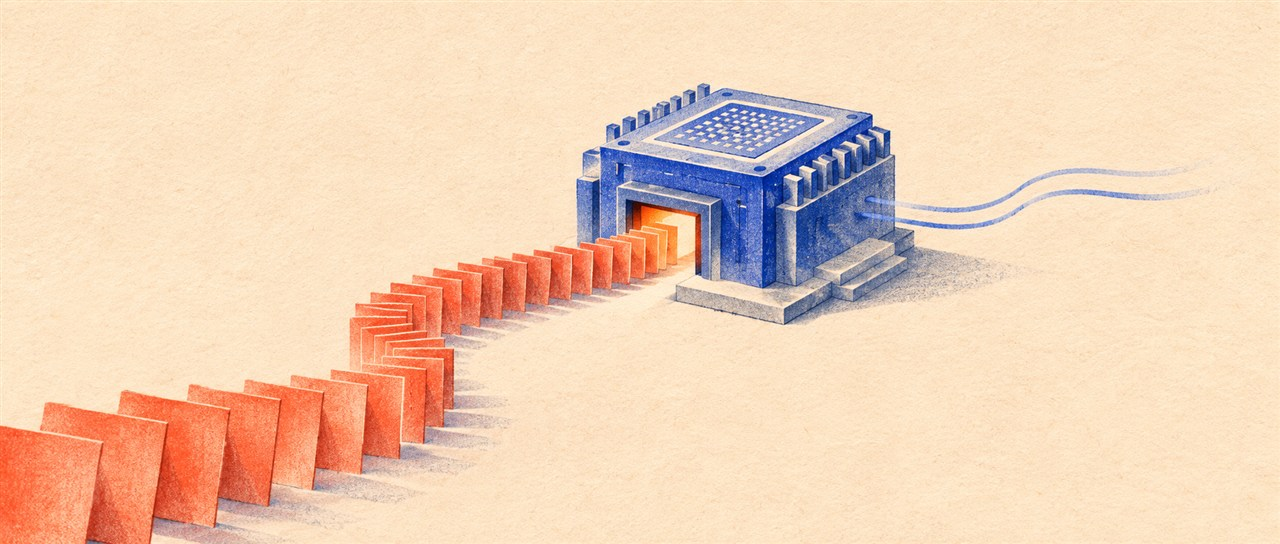
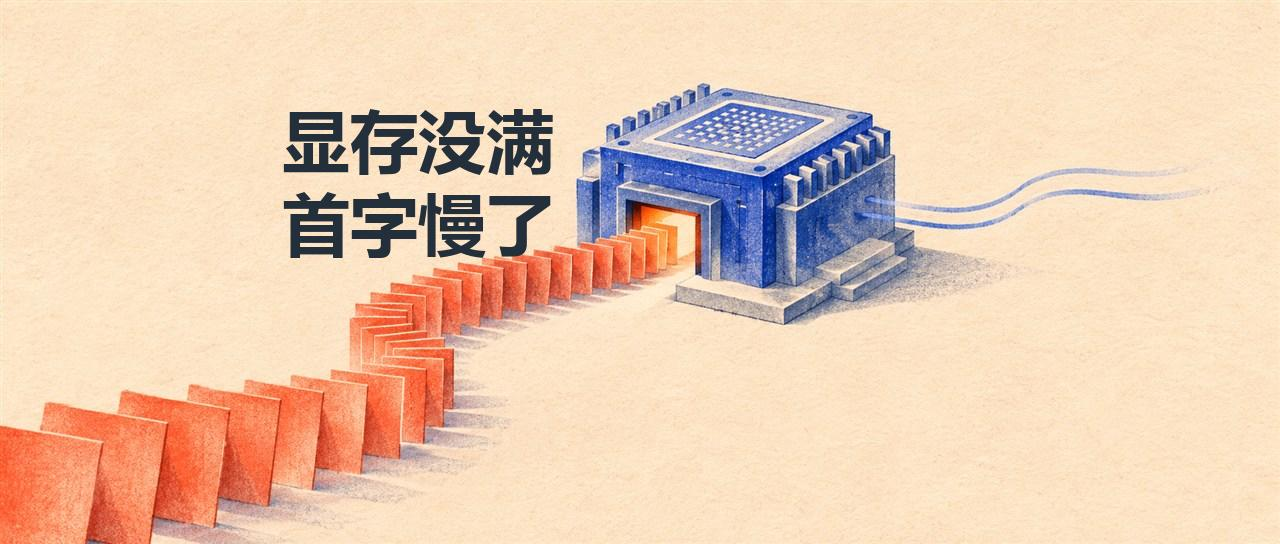
Standardize illustrated covers with separate title composition

Changed region(s): [[0.2188, 0.1875, 0.4375, 0.4688], [0.5312, 0.1875, 0.625, 0.25]]

diff --git a/skills/wechat-writing/scripts/compose_cover.py b/skills/wechat-writing/scripts/compose_cover.py
@@ -1,0 +1,84 @@
+"""Place the approved cover title on a generated, text-free illustration."""
+import argparse
+import os
+from pathlib import Path
+
+from PIL import Image, ImageDraw, ImageFont, ImageOps
+
+
+SIZES = {"wechat": (1280, 544), "ppt": (1600, 900)}
+INK = "#242F3C"
+FONT_PATHS = (
+    Path(os.environ.get("WINDIR", "C:/Windows")) / "Fonts/msyhbd.ttc",
+    Path("/usr/share/fonts/opentype/noto/NotoSansCJK-Bold.ttc"),
+    Path("/usr/share/fonts/opentype/noto/NotoSansCJKsc-Bold.otf"),
+    Path("/System/Library/Fonts/PingFang.ttc"),
+)
+
+
+def wrap_title(title, font, max_width):
+    lines = []
+    for paragraph in title.splitlines():
+        line = ""
+        for char in paragraph:
+            if line and font.getlength(line + char) > max_width:
+                lines.append(line.rstrip())
+                line = char.lstrip()
+            else:
+                line += char
+        if line.strip():
+            lines.append(line.rstrip())
+    return lines
+
+
+def put_title(image, title, font_path):
+    width, height = image.size
+    draw = ImageDraw.Draw(image)
+    max_width = width * 0.33
+    for size in range(round(width * 0.053), round(width * 0.038) - 1, -2):
+        font = ImageFont.truetype(str(font_path), size)
+        lines = wrap_title(title, font, max_width)
+        if len(lines) <= 2 and all(font.getlength(line) <= max_width for line in lines):
+            left = round(width * 0.22)
+            top = round(height * 0.20)
+            for index, line in enumerate(lines):
+                draw.text((left, top + index * round(size * 1.22)), line,
+                          font=font, fill=INK, anchor="lt")
+            return
+    raise ValueError("标题在安全区内放不下，请用更短的封面标题或调整换行。")
+
+
+def main():
+    parser = argparse.ArgumentParser(description="在无字手绘背景上叠加封面标题")
+    parser.add_argument("background", type=Path)
+    parser.add_argument("--title", required=True)
+    parser.add_argument("--format", choices=SIZES, default="wechat")
+    parser.add_argument("--font", type=Path, help="可选的中文粗体字体路径")
+    parser.add_argument("-o", "--output", type=Path, required=True)
+    args = parser.parse_args()
+
+    title = args.title.strip()
+    if not title:
+        parser.error("请提供封面标题。")
+    if args.background.resolve() == args.output.resolve():
+        parser.error("背景和输出请使用不同文件。")
+    font_path = args.font or next((path for path in FONT_PATHS if path.is_file()), None)
+    if not font_path:
+        parser.error("未找到中文字体。请安装思源黑体，或用 --font 指定中文粗体字体。")
+
+    try:
+        with Image.open(args.background) as source:
+            image = ImageOps.fit(
+                ImageOps.exif_transpose(source).convert("RGB"),
+                SIZES[args.format], Image.Resampling.LANCZOS,
+            )
+        put_title(image, title, font_path)
+        args.output.parent.mkdir(parents=True, exist_ok=True)
+        image.save(args.output)
+    except (OSError, ValueError) as error:
+        parser.error(str(error))
+
+
+if __name__ == "__main__":
+    main()
+

diff --git a/skills/wechat-writing/references/cover.md b/skills/wechat-writing/references/cover.md
@@ -1,13 +1,28 @@
-# 公众号封面
+# 手绘封面
 
-用户说“生成封面”“做一张封面”“重新做封面”时，先读文章或主题，再调用当前会话真实可用的图像生成工具。在 WorkBuddy 优先使用它的图片生成能力。用户给了定稿封面就直接采用；已有封面且用户只要预览或推草稿时沿用它。
+公众号新封面固定使用暖米白纸纹、石墨线稿和钴蓝为主的手绘插画，可以用少量朱红点出变化。标题用深墨色粗体，靠左排，图像主体在右半边，左右两侧留给平台裁切。用户提供定稿就沿用；只需预览或推草稿时沿用已有封面。
 
-1. 给模型一个具体的画面：画什么主体、主体在做什么、这个动作怎样说明文章主题。教程可用真实工具或操作画面，复盘可画关键过程，资讯可抓住一个变化做概念插画。用户给了参考图，或指定了项目的 `风格参考/`，可取一张同题材参考构图和视觉调性。
-2. 要求 2.35:1 横版，把主体放在中心区域，留出左右裁切空间。默认以有具体主体的无字插画或有辨识度的场景为主。用户要求有字时，让模型将确定的短标题画进画面，文字配合主体构图。避免只有标题、纯色背景或空泛装饰的封面。
-3. 打开实际成图检查主体、裁切后的缩略图和文字。有错字就重新生成，或在用户接受无字封面时出无字版。工具没有目标比例时，可用接近的宽幅图裁切至 1280×544；主体被裁掉就调整构图重做。
-4. 将选中的实际图片写入文章目录（例如 `cover.png`），更新 frontmatter 的 `cover`。预览和推草稿时核对路径及文件存在，必要时为 `wxpub publish` 显式传同一张图的 `--cover`。只在用户要求重做封面时替换既有文件。
+## 生成无字背景
 
-当前会话没有可用的图像生成工具、调用失败，或未返回可用图片时，说明停在哪一步，交付可复制的生图提示词和比例，等用户提供图片或选择其他方式。只有用户明确选择模板封面时，才执行 `wxpub cover` 或使用 `wxpub publish` 的自动模板。提示词、排版模板和真实生成的图片按实际产物描述。
+根据文章选一个能画出来的对象、动作或结果，同一套配色下换题材。例如讲排队就画请求卡片依次进入芯片。用 WorkBuddy 或当前会话的图片生成工具画背景，参考 [手绘底图](../assets/cover-style.jpg) 的纸纹、线稿与配色。保留画面的安静区域和可辨认的单一主体。
 
-参考花叔的 [公众号配图](https://github.com/alchaincyf/huashu-skills/tree/master/huashu-wechat-image) 和 [参考图用法](https://github.com/alchaincyf/huashu-gpt-image/blob/master/SKILL.md)。
+可把这段作为生图说明，替换括号里的内容：
+
+> 手绘科技编辑插画，（具体主体与动作）。暖米白纸纹、石墨线稿、钴蓝主体、少量朱红。主体集中在横向约 58%–76% 的区域，左侧标题区（横向 22%–56%、纵向 20%–54%）保留连续浅色，边缘留裁切空间。2.35:1 宽幅。画面里不出现文字、数字、Logo 或水印。
+
+默认交付 `1280×544` 的公众号封面。给 PPT 做同系列封面时改成 `16:9` 构图，沿用配色、左字右图和手绘质感。在 PPT 里用独立文本框叠标题，方便修改；只需封面图文件时可以用下面脚本的 `--format ppt`。
+
+## 叠标题并交付
+
+把实际生成的无字图保存到文章目录，例如 `cover-background.png`。标题单独叠加，使用用户给定的封面标题，或使用文章标题，过长时先拟一个原意一致的短标题。保持字色和位置统一，通常一到两行。用 Skill 自带脚本，路径相对 Skill 目录，输入输出路径换成实际路径：
+
+```bash
+python scripts/compose_cover.py cover-background.png --title "首字为什么慢" -o cover.png
+```
+
+脚本依赖 Pillow。需要装依赖时用 `python -m pip install Pillow`。有统一品牌字体时用 `--font` 指定中文粗体；系统默认用微软雅黑粗体、思源黑体或苹方。用户要无字封面时直接用底图。检查成图与缩略图，确认标题无遮挡后在正文 frontmatter 写 `cover: cover.png`。预览和推草稿时明确使用同一张实际图片。
+
+当前会话没有生图工具或没有返回可用图片时，说明卡点，交付生图提示词，等用户提供背景或选择其他方式。只有用户明确选择模板时，才使用 `wxpub cover` 或 `wxpub publish` 的自动模板。
+
+方法参考花叔的 [公众号配图](https://github.com/alchaincyf/huashu-skills/tree/master/huashu-wechat-image) 和 [参考图用法](https://github.com/alchaincyf/huashu-gpt-image/blob/master/SKILL.md)。
 

diff --git a/skills/wechat-writing/SKILL.md b/skills/wechat-writing/SKILL.md
@@ -1,6 +1,6 @@
 ---
 name: wechat-writing
-description: 写公众号、发 AI 新闻、生成公众号封面或推公众号草稿箱时使用。覆盖 aihot 选题、个人素材检索与资料调研、技术文章起草、按样文精简审稿、小红书笔记改写，以及用宿主生图工具做封面、用 wxpub 预览和推草稿箱。也支持只改现有稿、核查、学习改稿与归档。
+description: 写公众号、发 AI 新闻、生成公众号封面、做同风格 PPT 封面或推公众号草稿箱时使用。覆盖 aihot 选题、个人素材检索与资料调研、技术文章起草、按样文精简审稿、小红书笔记改写，以及用宿主生图工具做封面、用 wxpub 预览和推草稿箱。也支持只改现有稿、核查、学习改稿与归档。
 ---
 
 # 公众号写作
@@ -13,7 +13,7 @@ description: 写公众号、发 AI 新闻、生成公众号封面或推公众号
 | 找我以前的记录、做资料调研 | 读 [个人素材与调研](references/research.md)。 |
 | 起草、去 AI 味、核查 | 读 [成稿与编辑](references/editorial.md)。起草先厘清素材和判断，再做一次删改；只润色时直接编辑原稿。 |
 | 小红书版 | 读 [小红书改写](references/xiaohongshu.md)。输出独立笔记稿。 |
-| 做封面 | 读 [公众号封面](references/cover.md)。默认让图像模型直接生成，按文章和参考图定风格。 |
+| 做公众号封面、复用风格做 PPT 封面 | 读 [公众号封面](references/cover.md)。固定手绘风格，模型生成无字背景，再叠加标题。 |
 | 配图、预览、推草稿箱、归档 | 读 [发布与归档](references/publishing.md)。通过 wxpub 生成公众号交付物。 |
 | 导入范文、学习人工改稿 | 读 [成稿与编辑](references/editorial.md) 的“学习作者文风”。 |
 

diff --git a/README.md b/README.md
@@ -32,7 +32,7 @@
 | 「用这张旧封面做参考，给这篇生成一版封面和预览」 | 模型成图、微信 HTML 和本地预览。 |
 | 「把这篇改成小红书笔记」 | 单独的 `xiaohongshu.md`，按笔记阅读顺序重写。 |
 
-只写稿和改稿时可以直接用 Skill。封面生图调用宿主已有的图像工具。范文库为可选功能，安装命令是 `uv tool install wewrite`。
+只写稿和改稿时可以直接用 Skill。封面使用统一手绘风格，宿主的图像工具生成无字背景，随后叠加标题。范文库为可选功能，安装命令是 `uv tool install wewrite`。
 
 ### 从 Markdown 开始
 
@@ -59,9 +59,9 @@ wxpub publish article.md -o out
 
 ## 成稿示例
 
-《显存没满，为什么首字还是慢》使用模型直接生成封面。下方正文截图来自同一篇 Markdown 经 `wxpub publish --dry-run` 渲染的手机宽度预览。[查看示例 Markdown](examples/demo-article.md)
+《显存没满，为什么首字还是慢》的封面由模型绘制手绘背景，再叠加统一样式的标题。下方正文截图来自同一篇 Markdown 经 `wxpub publish --dry-run` 渲染的手机宽度预览。[查看示例 Markdown](examples/demo-article.md)
 
-![模型生成的公众号封面，红色请求卡片排队进入蓝色芯片](docs/demo-cover.jpg)
+![手绘公众号封面，左侧是标题，右侧是请求卡片和蓝色芯片](docs/demo-cover.jpg)
 
 <img src="docs/demo-preview.png" width="420" alt="示例文章的微信正文预览" />
 
